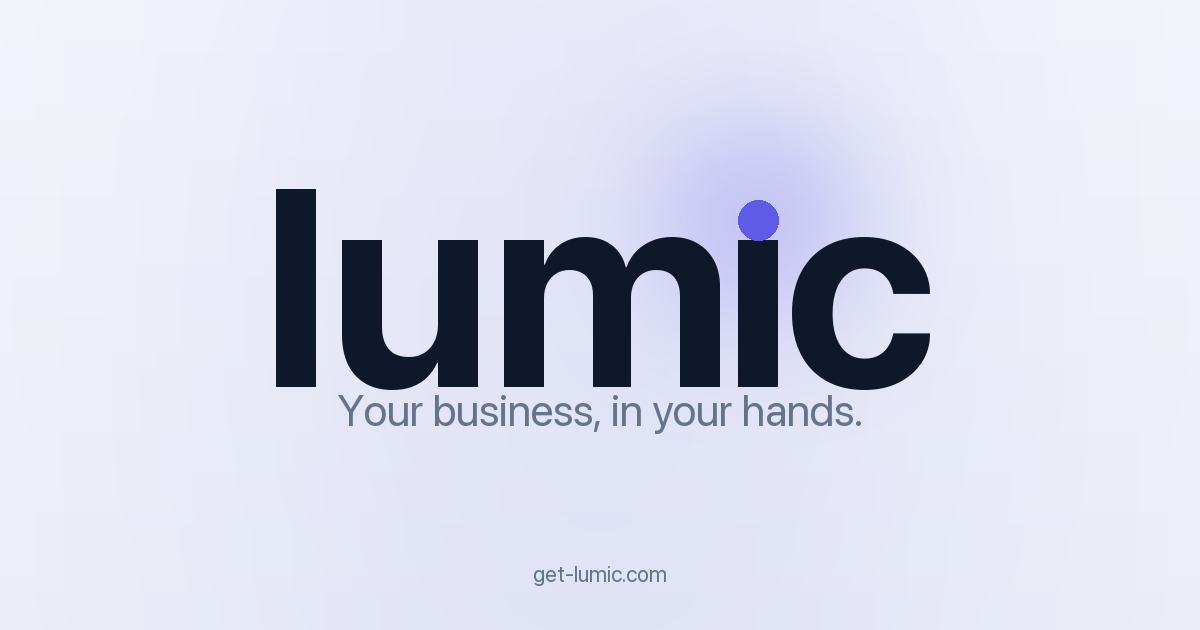
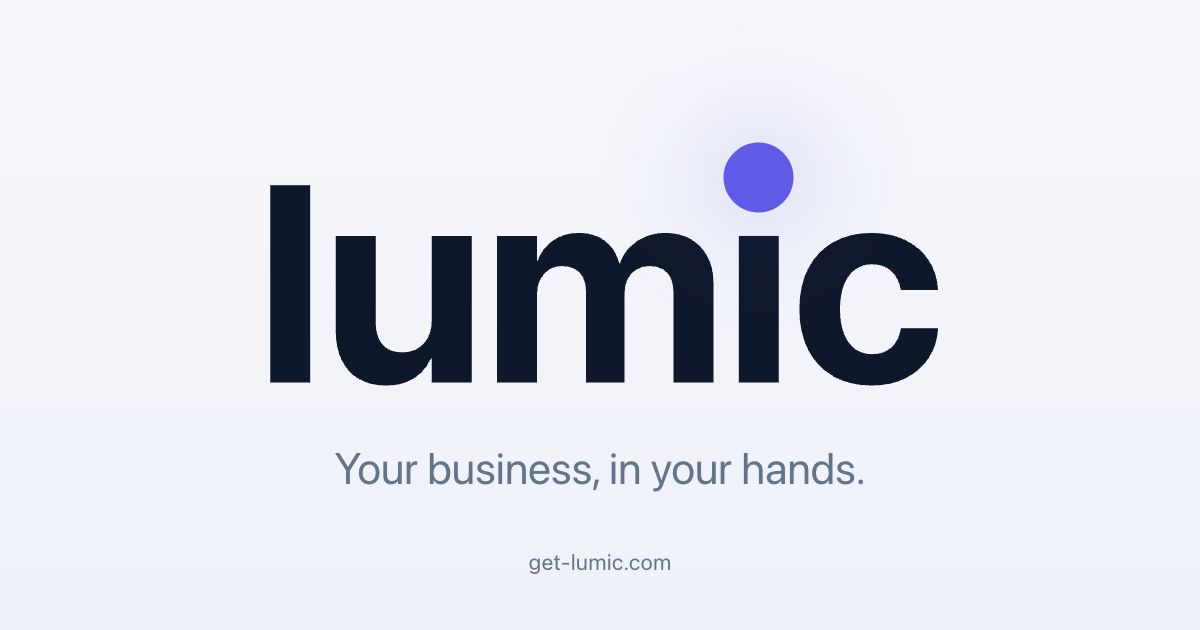
Copy + brand polish: CFP credential, St. Louis founders, attributed quote, header-uniform OG image
- Add CFP® credential to Joshua Wittenauer
- Add St. Louis to founders subtitle (where we're based)
- Attribute quote to "Bradford, R." (VP of Sales, $20M manufacturer)
- Reword quote to drop Phocas-specific reference
- Render OG image from new scripts/og-template.html using the same
  .brand markup/CSS as the live header, so link previews show the
  exact same wordmark visitors see on get-lumic.com
- Replace PIL-based build_og_image.py with Playwright renderer

diff --git a/public/index.html b/public/index.html
@@ -941,10 +941,10 @@ h2.section-title {
       </div>
 
       <div class="problem-quote reveal">
-        <p class="q">"Honestly, this is better than Phocas — and Phocas is what I had at my last shop."</p>
+        <p class="q">"Honestly, this is better than the BI tools I've used at much larger companies."</p>
         <div class="who">
           <div>
-            <strong style="color:var(--text-strong);font-weight:600">VP of Sales</strong> — $20M manufacturer
+            <strong style="color:var(--text-strong);font-weight:600">Bradford, R.</strong> — VP of Sales, $20M manufacturer
           </div>
         </div>
       </div>
@@ -1120,7 +1120,7 @@ h2.section-title {
     <div class="section-head reveal">
       <div class="section-eyebrow">Who you'll be working with</div>
       <h2 class="section-title">Built by operators</h2>
-      <p class="section-sub">Two finance-trained founders who got tired of seeing good businesses run on duct tape. Our minds supplement each other; every build is a collaboration between both of us.</p>
+      <p class="section-sub">Two finance-trained founders, based in St. Louis, who got tired of seeing good businesses run on duct tape. Our minds supplement each other; every build is a collaboration between both of us.</p>
     </div>
     <div class="founder-grid">
       <div class="founder-card reveal">
@@ -1140,7 +1140,7 @@ h2.section-title {
           <span class="founder-initials" style="display:none">JW</span>
         </div>
         <div class="founder-info">
-          <h3>Joshua Wittenauer</h3>
+          <h3>Joshua Wittenauer, CFP®</h3>
           <p>Corporate-finance trained, in a hands-on operations role today, with Power BI and SQL by trade. Leads lumic's automation and AI-agent builds; brings the "actually build it" pragmatism to every conversation.</p>
           <a class="founder-link" href="https://www.linkedin.com/in/joshua-wittenauer-890339191/" target="_blank" rel="noopener">LinkedIn →</a>
         </div>

diff --git a/scripts/og-template.html b/scripts/og-template.html
@@ -1,0 +1,76 @@
+<!doctype html>
+<html lang="en" data-theme="light">
+<head>
+<meta charset="utf-8">
+<title>lumic OG image source</title>
+<style>
+:root {
+  --bg:           #f6f7fb;
+  --bg-2:         #eef1f8;
+  --text-strong:  #0f172a;
+  --muted:        #64748b;
+  --primary:      #5e5ce6;
+}
+
+* { box-sizing: border-box; margin: 0; padding: 0; }
+
+html, body {
+  width: 1200px; height: 630px;
+  background: linear-gradient(180deg, var(--bg) 0%, var(--bg-2) 100%);
+  font-family: -apple-system, BlinkMacSystemFont, 'SF Pro Display', 'SF Pro Text', 'Segoe UI', Roboto, sans-serif;
+  -webkit-font-smoothing: antialiased; -moz-osx-font-smoothing: grayscale;
+  overflow: hidden;
+}
+
+.stage {
+  width: 100%; height: 100%;
+  display: flex; flex-direction: column;
+  align-items: center; justify-content: center;
+  position: relative;
+}
+
+/* Wordmark — same exact construction as the header .brand element,
+   just larger. Sizing in em keeps the indigo orb proportional. */
+.brand {
+  font-size: 280px;
+  font-weight: 700;
+  letter-spacing: -.7px;
+  color: var(--text-strong);
+  line-height: 1;
+}
+.idot { position: relative; display: inline-block; }
+.idot-dot {
+  position: absolute;
+  top: .02em; left: 50%;
+  width: .25em; height: .25em;
+  border-radius: 50%;
+  background: var(--primary);
+  box-shadow: 0 0 0.4em rgba(94, 92, 230, 0.55);
+  transform: translateX(-50%);
+}
+
+.tagline {
+  margin-top: 24px;
+  font-size: 44px; font-weight: 400;
+  color: var(--muted);
+  letter-spacing: -.2px;
+}
+
+.url {
+  position: absolute;
+  bottom: 56px; left: 0; right: 0;
+  text-align: center;
+  font-size: 22px; font-weight: 400;
+  color: var(--muted);
+  letter-spacing: .4px;
+}
+</style>
+</head>
+<body>
+  <div class="stage">
+    <div class="brand">lum<span class="idot">&#305;<span class="idot-dot"></span></span>c</div>
+    <div class="tagline">Your business, in your hands.</div>
+    <div class="url">get-lumic.com</div>
+  </div>
+</body>
+</html>

diff --git a/scripts/build_og_image.py b/scripts/build_og_image.py
@@ -1,136 +1,37 @@
-"""Build public/og-image.png (1200x630) — lumic wordmark + tagline.
+"""Build public/og-image.png (1200x630) by rendering scripts/og-template.html.
+
+The template uses the same .brand markup and CSS as the live site header, so
+the wordmark and indigo orb in the OG image are pixel-equivalent to what
+visitors see at the top of get-lumic.com.
 
 Run: python3 scripts/build_og_image.py
-Re-run any time the wordmark or tagline changes. Output is committed.
+First-time setup: pip install playwright && playwright install chromium
 """
 from pathlib import Path
-from PIL import Image, ImageDraw, ImageFilter, ImageFont
 
-OUT = Path(__file__).resolve().parents[1] / "public" / "og-image.png"
+ROOT = Path(__file__).resolve().parents[1]
+TEMPLATE = ROOT / "scripts" / "og-template.html"
+OUT = ROOT / "public" / "og-image.png"
 
-W, H = 1200, 630
-BG       = (246, 247, 251)     # --bg
-BG_2     = (238, 241, 248)     # --bg-2
-PRIMARY  = (94, 92, 230)       # --primary  #5e5ce6
-TEXT     = (15, 23, 42)        # --text-strong
-MUTED    = (100, 116, 139)     # --muted
-
-SFNS = "/System/Library/Fonts/SFNS.ttf"
-
-def bold(size: int) -> ImageFont.FreeTypeFont:
-    f = ImageFont.truetype(SFNS, size)
-    f.set_variation_by_name(b"Bold")
-    return f
-
-def regular(size: int) -> ImageFont.FreeTypeFont:
-    f = ImageFont.truetype(SFNS, size)
-    f.set_variation_by_name(b"Regular")
-    return f
-
-def vertical_gradient(w: int, h: int, top: tuple, bot: tuple) -> Image.Image:
-    img = Image.new("RGB", (w, h), top)
-    px = img.load()
-    for y in range(h):
-        t = y / max(h - 1, 1)
-        r = round(top[0] + (bot[0] - top[0]) * t)
-        g = round(top[1] + (bot[1] - top[1]) * t)
-        b = round(top[2] + (bot[2] - top[2]) * t)
-        for x in range(w):
-            px[x, y] = (r, g, b)
-    return img
-
-def add_glow(img: Image.Image, cx: int, cy: int, diameter: int,
-             color: tuple, intensity: int = 180) -> None:
-    """Composite a soft circular glow onto an RGB image without square artifacts.
-    Trick: blur an L-mode alpha mask separately from the solid-color overlay,
-    so blurred RGBA-corner darkening can't bleed in."""
-    mask = Image.new("L", img.size, 0)
-    d = ImageDraw.Draw(mask)
-    r = diameter // 2
-    d.ellipse((cx - r, cy - r, cx + r, cy + r), fill=intensity)
-    mask = mask.filter(ImageFilter.GaussianBlur(radius=diameter * 0.5))
-    overlay = Image.new("RGB", img.size, color)
-    img.paste(overlay, (0, 0), mask)
 
 def main() -> None:
-    img = vertical_gradient(W, H, BG, BG_2)
+    try:
+        from playwright.sync_api import sync_playwright
+    except ImportError:
+        raise SystemExit(
+            "playwright is not installed.\n"
+            "Run: pip install playwright && playwright install chromium"
+        )
 
-    draw = ImageDraw.Draw(img)
+    with sync_playwright() as p:
+        browser = p.chromium.launch()
+        page = browser.new_page(viewport={"width": 1200, "height": 630})
+        page.goto(TEMPLATE.as_uri())
+        page.screenshot(path=str(OUT), full_page=False, omit_background=False)
+        browser.close()
 
-    # ---------- Wordmark layout ----------
-    wm_size = 280
-    wm_font = bold(wm_size)
-    parts = ["lum", "ı", "c"]
-    widths = [draw.textlength(p, font=wm_font) for p in parts]
-    spacing = -8
-    total_w = sum(widths) + spacing * (len(parts) - 1)
-
-    # Vertical centering by the ascender of the bold cap; visually balanced.
-    bbox = wm_font.getbbox("lumic")
-    cap_h = bbox[3] - bbox[1]
-    wm_y = (H - cap_h) // 2 - 30 - bbox[1]
-
-    x = (W - total_w) // 2
-    starts = []
-    for w in widths:
-        starts.append(x)
-        x += w + spacing
-
-    # ---------- Compute i-dot location BEFORE drawing text ----------
-    # Anchor to actual font metrics: top of `l`-ascender vs top of `u`-x-height,
-    # so the dot sits proportionally above the lowercase letters regardless of
-    # font weight / optical size choices.
-    l_top = wm_font.getbbox("l")[1]      # y of `l` ascender top within text box
-    u_top = wm_font.getbbox("u")[1]      # y of `u` x-height top within text box
-    ascender_top_y = wm_y + l_top        # canvas y of `l` top
-    xheight_top_y  = wm_y + u_top        # canvas y of `u` top
-    cap_to_x = xheight_top_y - ascender_top_y   # vertical distance cap → x-height
-
-    i_left = starts[1]
-    i_w = widths[1]
-    dot_r = int(cap_to_x * 0.40)
-    dot_cx = int(i_left + i_w / 2)
-    # Dot bottom edge sits right at x-height (orb visually kisses the stem).
-    gap = 0
-    dot_cy = xheight_top_y - gap - dot_r
-
-    # ---------- Soft ambient bloom behind the wordmark ----------
-    add_glow(img, W // 2, H // 2, diameter=560, color=PRIMARY, intensity=70)
-    # Localized warm halo around the dot — diameter scales with dot size so it
-    # always feels attached to the orb rather than a separate bloom.
-    add_glow(img, dot_cx, dot_cy, diameter=int(dot_r * 7), color=PRIMARY, intensity=160)
-
-    # Re-create the draw context since we've pasted onto img
-    draw = ImageDraw.Draw(img)
-
-    # ---------- Draw wordmark on top of the bloom ----------
-    for s, p in zip(starts, parts):
-        draw.text((s, wm_y), p, font=wm_font, fill=TEXT)
-
-    # ---------- Draw the indigo orb ----------
-    draw.ellipse(
-        (dot_cx - dot_r, dot_cy - dot_r, dot_cx + dot_r, dot_cy + dot_r),
-        fill=PRIMARY,
-    )
-
-    # ---------- Tagline ----------
-    tag_size = 44
-    tag_font = regular(tag_size)
-    tag = "Your business, in your hands."
-    tag_w = draw.textlength(tag, font=tag_font)
-    tag_y = wm_y + cap_h + 56
-    draw.text(((W - tag_w) // 2, tag_y), tag, font=tag_font, fill=MUTED)
-
-    # ---------- Footer URL ----------
-    url_size = 22
-    url_font = regular(url_size)
-    url = "get-lumic.com"
-    url_w = draw.textlength(url, font=url_font)
-    draw.text(((W - url_w) // 2, H - 70), url, font=url_font, fill=MUTED)
-
-    OUT.parent.mkdir(parents=True, exist_ok=True)
-    img.save(OUT, "PNG", optimize=True)
     print(f"wrote {OUT}  ({OUT.stat().st_size:,} bytes)")
+
 
 if __name__ == "__main__":
     main()
